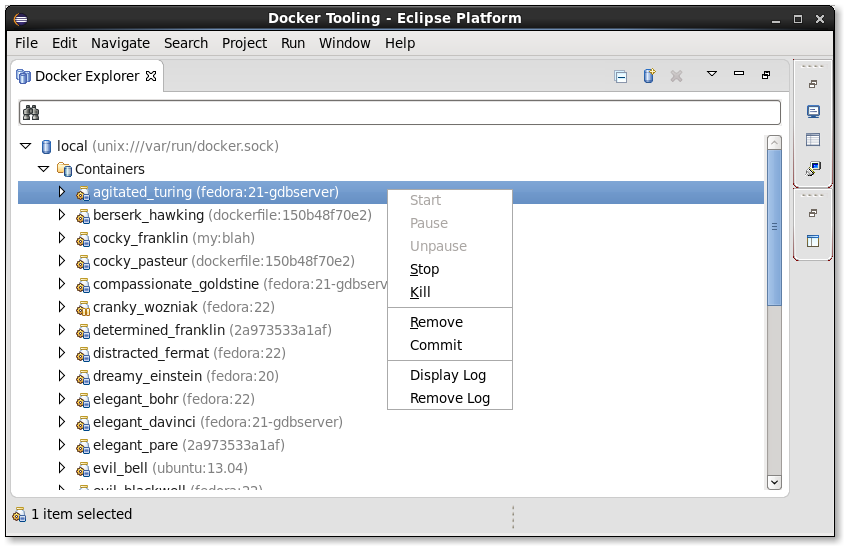
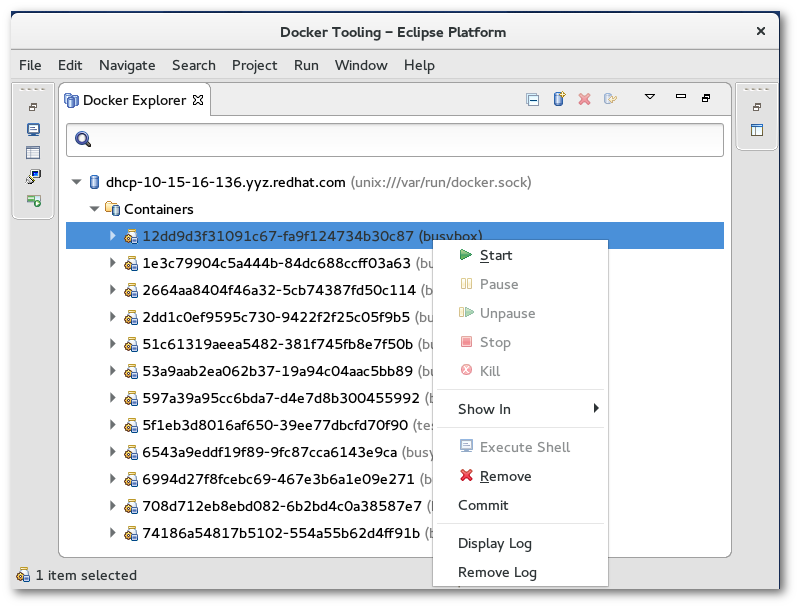
First commited as after_74815_rev1

diff --git a/containers/org.eclipse.linuxtools.docker.docs/Linux_Tools_Project/Docker_Tooling/User_Guide/Docker-Tooling-Perspective.html b/containers/org.eclipse.linuxtools.docker.docs/Linux_Tools_Project/Docker_Tooling/User_Guide/Docker-Tooling-Perspective.html
@@ -28,7 +28,7 @@
 				<td style="width: 60%" align="center"></td>
 				<td style="width: 20%" align="right" valign="top">Updating This Document</td>
 			</tr>
-		</table><hr/>
+		</table><hr class="navigation-separator"/>
 		<h1 id="Docker_Tooling_Perspective">Docker Tooling Perspective</h1>
 		<p>A new perspective known as the Docker Tooling Perspective is added.</p>
 		<p>
@@ -37,13 +37,13 @@
 		<p>This perspective brings up three new views added:</p>
 		<ul>
 			<li>
-				<a href="Docker-Tooling-Perspective.html#Docker_Explorer_View">Docker Explorer View</a> - view for creating/managing connections to Docker daemons
+				<a href="#Docker_Explorer_View">Docker Explorer View</a> - view for creating/managing connections to Docker daemons
 			</li>
 			<li>
-				<a href="Docker-Tooling-Perspective.html#Docker_Images_View">Docker Images View</a> - view for managing Docker Images
+				<a href="#Docker_Images_View">Docker Images View</a> - view for managing Docker Images
 			</li>
 			<li>
-				<a href="Docker-Tooling-Perspective.html#Docker_Containers_View">Docker Containers View</a> - view for managing Docker Containers
+				<a href="#Docker_Containers_View">Docker Containers View</a> - view for managing Docker Containers
 			</li>
 		</ul>
 		<p>In addition, the Docker Tooling Perspective adds the Console View and the Properties View.</p>
@@ -65,6 +65,7 @@
 			<img border="0" src="images/LinuxToolsDockerExplorerViewInit.png"/>
 		</p>
 		<p>Clicking on the message will bring up the New Connection Wizard.</p>
+		<h3 id="New_Connection_Wizard">New Connection Wizard</h3>
 		<p>
 			<img border="0" src="images/LinuxToolsNewConnectionWizard.png"/>
 		</p>
@@ -85,7 +86,20 @@
 			has performed management outside of Eclipse using the docker command.
 		</p>
 		<p>The Explorer View shows a tree view with the main nodes being the connections.  Each connection opens up to reveal Images and
-			Containers nodes which have children nodes for Images and Containers that the connection knows about.  Filtering is provided.
+			Containers nodes which have children nodes for Images and Containers that the connection knows about.  If a connection gets dropped
+			(e.g. the daemon is stopped), it will be marked in view using a gray disabled icon.  To enable the connection,
+			use the 
+			<img border="0" src="images/LinuxToolsDockerToolingEnableConnection.png"/> icon on the toolbar to re-enable the connection.  If the connection
+			can be enabled, it will change color to denote this. 
+		</p>
+		<h3 id="Edit_Connection_Wizard">Edit Connection Wizard</h3>
+		<p>A connection can also be edited after it is created.  Simply select the connection in the Docker Explorer View and right-click for
+			the context menu to select "Edit Connection...".  This will bring up the Edit Connection Wizard:</p>
+		<p>
+			<img border="0" src="images/LinuxToolsEditConnection.png"/>
+		</p>
+		<h3 id="Filtering">Filtering</h3>
+		<p>Filtering is provided for the Docker Explorer View.
 			Simply click on the generic Menu options (down arrow) and click on "Customize View...".  This will bring up the following dialog:</p>
 		<p>
 			<img border="0" src="images/LinuxToolsExplorerFilter.png"/>
@@ -110,12 +124,14 @@
 			<li>Unpause - continue a paused Container</li>
 			<li>Stop - stop running Containers</li>
 			<li>Kill - kill running Containers</li>
+			<li>Show in - show in Properties View</li>
+			<li>Execute Shell - run a shell in the Terminal View (running Container only)</li>
 			<li>Remove - delete stopped Containers</li>
 			<li>
-				<a href="Docker-Tooling-Perspective.html#Commit_Container">Commit</a> - commit the Container to an Image
+				<a href="#Commit_Container">Commit</a> - commit the Container to an Image
 			</li>
 			<li>
-				<a href="Docker-Tooling-Perspective.html#Display_Log">Display Log</a> - display the log for the Container
+				<a href="#Display_Log">Display Log</a> - display the log for the Container
 			</li>
 			<li>Remove Log - removes the log for the Container from Eclipse Console View</li>
 		</ul>
@@ -125,17 +141,18 @@
 		<p>For Images, one can:</p>
 		<ul>
 			<li>
-				<a href="Docker-Tooling-Perspective.html#Run_Image">Run</a> - build a Container and run it
+				<a href="#Run_Image">Run</a> - build a Container and run it
 			</li>
+			<li>Show in Properties View</li>
 			<li>Remove - delete selected Images</li>
 			<li>
-				<a href="Docker-Tooling-Perspective.html#Push_Image">Push</a> - push an Image to a registry
+				<a href="#Push_Image">Push</a> - push an Image to a registry
 			</li>
 			<li>
-				<a href="Docker-Tooling-Perspective.html#Add_Tag">Add Tag</a> - add a tag to an Image
+				<a href="#Add_Tag">Add Tag</a> - add a tag to an Image
 			</li>
 			<li>
-				<a href="Docker-Tooling-Perspective.html#Remove_Tag">Remove Tag</a> - remove a tag from an Image with multiple tags
+				<a href="#Remove_Tag">Remove Tag</a> - remove a tag from an Image with multiple tags
 			</li>
 		</ul>
 		<h2 id="Docker_Images_View">Docker Images View</h2>
@@ -152,23 +169,23 @@
 		<ul>
 			<li>
 				<img border="0" src="images/LinuxToolsDockerImageViewPull.png"/> - 
-				<a href="Docker-Tooling-Perspective.html#Pull_Image">pull an Image from the Repository</a>
+				<a href="#Pull_Image">pull an Image from the Repository</a>
 			</li>
 			<li>
 				<img border="0" src="images/LinuxToolsDockerImageViewPush.png"/> - 
-				<a href="Docker-Tooling-Perspective.html#Push_Image">push an Image to the Repository</a>
+				<a href="#Push_Image">push an Image to the Repository</a>
 			</li>
 			<li>
 				<img border="0" src="images/LinuxToolsDockerContainerCreate.png"/> - 
-				<a href="Docker-Tooling-Perspective.html#Run_Image">create a Container from an Image</a>
+				<a href="#Run_Image">create a Container from an Image</a>
 			</li>
 			<li>
 				<img border="0" src="images/LinuxToolsDockerImageBuild.png"/> - 
-				<a href="Docker-Tooling-Perspective.html#Build_Image">build an Image from a Dockerfile</a>
+				<a href="#Build_Image">build an Image from a Dockerfile</a>
 			</li>
 			<li>
 				<img border="0" src="images/LinuxToolsDockerTagImage.png"/> - 
-				<a href="Docker-Tooling-Perspective.html#Add_Tag">tag an Image</a>
+				<a href="#Add_Tag">tag an Image</a>
 			</li>
 			<li>
 				<img border="0" src="images/LinuxToolsDockerDeleteImage.png"/> - delete one or more Images (requires confirmation)
@@ -180,22 +197,29 @@
 		<p>There are also context menu actions supported:</p>
 		<ul>
 			<li>
-				<a href="Docker-Tooling-Perspective.html#Add_Tag">Add Tag</a> - same as the toolbar tag image action
+				<img border="0" src="images/LinuxToolsDockerContainerCreate.png"/> - 
+				<a href="#Run_Image">Run an Image and create a Container</a>
 			</li>
 			<li>
-				<a href="Docker-Tooling-Perspective.html#Remove_Tag">Remove Tag</a> - remove a tag from an Image with multiple repo tags
+				<a href="#Add_Tag">Add Tag</a> - same as the toolbar tag image action
+			</li>
+			<li>
+				<a href="#Remove_Tag">Remove Tag</a> - remove a tag from an Image with multiple repo tags
 			</li>
 		</ul>
 		<p>The text entry below the Connection name is used to search/filter the contents of the list.
 			Anything typed in the filter text widget is used to match items in the list (any column) and
 			any row without a match is excluded.</p>
 		<h3 id="Pull_Image">Pull Image</h3>
-		<p>Pulling a Docker Image consists of requesting a repo tag or repository specification.
-			Specifying a repository but no tag will pull all Images from that repo (for example: fedora).</p>
-		<p>The pull Wizard is used to specify the repository or repo:tag specification.</p>
+		<p>Pulling a Docker Image consists of requesting a repo tag or repository specification from
+			a registry.  Specifying a repository with no tag will pull all Images from that repo (for example: fedora).</p>
+		<p>The pull Wizard is used to specify the repository or repo:tag specification and the registry to use.</p>
 		<p>
 			<img border="0" src="images/LinuxToolsDockerPullWizard.png"/>
 		</p>
+		<p>By default, the Docker Hub registry will be used, however, a user may
+			specify an additional private registry if desired.  Additional registries are added using
+			Windows -&gt; Preferences -&gt; Docker -&gt; Registry Accounts.</p>
 		<p>The user can either fill in the complete name of the image to download or a search can be performed
 			using the Search button.  This brings up the Search Image Wizard.</p>
 		<p>
@@ -221,7 +245,10 @@
 			repo:tag, it will be pushed to the specified registry.  To specify an external or local registry,
 			use the Tag Image function to add a new tag to an existing Image which has the registry specifier and
 			then push that tag.</p>
-		<p>The push Wizard is used to specify the tag to push.</p>
+		<p>The latest version of the Push Image Wizard allows one to specify a registry/account that has been added
+			via Window -&gt; Preferences -&gt; Docker -&gt; Registry Accounts.  This is needed when authorization is required
+			by the registry for the specified repo.  Using the aforementioned tag method assumes no authorization
+			required.</p>
 		<p>
 			<img border="0" src="images/LinuxToolsDockerPushWizard.png"/>
 		</p>
@@ -256,6 +283,7 @@
 			<li>Keep Stdin Open - used to allow input from the Console</li>
 			<li>Allocate pseudo-tty - used to allocate a TTY for the Container (needed if running a shell)</li>
 			<li>Automatically remove the Container on exit - this is used to remove the Container when finished</li>
+			<li>Give extended privileges to this container - this is used to give the container additional privileges</li>
 		</ul>
 		<p>The second page of the Wizard also has a number of needed settings:</p>
 		<p>
@@ -305,7 +333,7 @@
 		<p>The directory can be specified using the "Browse" button.  Once a valid existing directory
 			is specified, the "Edit" button will be enabled, allowing creation and modification of the
 			Dockerfile using a 
-			<a href="Docker-Tooling-Perspective.html#Dockerfile_Editor">basic editor dialog</a>.
+			<a href="#Dockerfile_Editor">basic editor dialog</a>.
 		</p>
 		<p>When the Dockerfile is considered complete, hitting the "Finish" button will start the
 			Image build action.  When the build is complete, the Docker Images View will be refreshed
@@ -314,8 +342,13 @@
 		<p>
 			<img border="0" src="images/LinuxToolsDockerfileEditor.png"/>
 		</p>
-		<p>The Dockerfile editor is a rudimentary text editor with clipboard support (copy, cut, and paste).
-			The Dockerfile is used to specify how to build the new Docker Image.  The file contains
+		<p>The Dockerfile editor is a specialized text editor for Dockerfiles that was added to the
+			Neon release.  The editor supports
+			completion and offers help on the basic Dockerfile constructs.  Completion occurs using the
+			CTRL + space sequence as in any other text editor.  Reverting fixes and saving are also supported plus
+			full colorization.  The editor can be brought up from the Build Image Wizard or by double-clicking on
+			a Dockerfile file in an Eclipse View such as the Project Explorer.</p>
+		<p>A Dockerfile is used to specify how to build the new Docker Image.  The file contains
 			a set of commands used to build the Image:</p>
 		<ul>
 			<li>FROM xxxxxx - this must be the first line and specifies the Image xxxxxx to base off of (e.g. FROM fedora:20)
@@ -390,6 +423,23 @@
 		<p>For more details, see 
 			<a href="http://docs.docker.com/reference/builder">the official Dockerfile reference</a>
 		</p>
+		<h4 id="Build_Image_Run_Configuration">Build Image Run Configuration</h4>
+		<p>A Dockerfile can also be run by right-clicking on it in an Eclipse project and choosing
+			Run as -&gt; Docker Image Build.  For the first time the file is built, you will get the following
+			dialog:</p>
+		<p>
+			<img border="0" src="images/LinuxToolsDockerBuildImageFirstDialog.png"/>
+		</p>
+		<p>Here, the connection and the repository name for the new image can be supplied.  An image created
+			without a name will default to be: dockerfile:xxxxxxxxxxxx where xxxxxxxxxxx is a unique hex value.  </p>
+		<p>After building, a Run configuration will be created that can be inspected, modified, or run using
+			the Run-&gt;Run Configurations... menu option.</p>
+		<p>
+			<img border="0" src="images/LinuxToolsDockerBuildImageConfiguration2.png"/>
+		</p>
+		<p>Note there are additional options in the configuration that can be specified for the image build that
+			are not available by right-clicking on the Dockerfile.  A new Run configuration can be created from the
+			Run Configurations dialog by double-clicking on the Build Docker Image category.</p>
 		<h3 id="Add_Tag">Add Tag</h3>
 		<p>The Tag Image dialog can be brought up directly from the Docker Images View toolbar or using the
 			context menu by right-clicking on an Image.</p>
@@ -460,10 +510,10 @@
 		<p>The following context menu actions are supported:</p>
 		<ul>
 			<li>Commit Container - 
-				<a href="Docker-Tooling-Perspective.html#Commit_Container">commit all changes of a selected Container into a new Image</a>
+				<a href="#Commit_Container">commit all changes of a selected Container into a new Image</a>
 			</li>
 			<li>Display Log - 
-				<a href="Docker-Tooling-Perspective.html#Display_Log">display the stdout/stderr logs of a selected Container in the Console View</a>
+				<a href="#Display_Log">display the stdout/stderr logs of a selected Container in the Console View</a>
 			</li>
 			<li>Remove Log - remove the stdout/stderr logs of a selected Container from the Console View</li>
 		</ul>
@@ -511,9 +561,9 @@
 		</ul>
 		<h2 id="Properties_View">Properties View</h2>
 		<p>The Properties View will respond to selections in the three Docker Tooling Views: 
-			<a href="Docker-Tooling-Perspective.html#Docker_Explorer_View">Docker Explorer View</a>, 
-			<a href="Docker-Tooling-Perspective.html#Docker_Images_View">Docker Images View</a>, and the 
-			<a href="Docker-Tooling-Perspective.html#Docker_Containers_View">Docker Containers View</a>.  The data shown will depend on what is being selected:
+			<a href="#Docker_Explorer_View">Docker Explorer View</a>, 
+			<a href="#Docker_Images_View">Docker Images View</a>, and the 
+			<a href="#Docker_Containers_View">Docker Containers View</a>.  The data shown will depend on what is being selected:
 		</p>
 		<ul>
 			<li>Docker Connection</li>
@@ -530,7 +580,7 @@
 		</ul>
 		<p>
 			<img border="0" src="images/LinuxToolsDockerPropertiesView.png"/>
-		</p><hr/>
+		</p><hr class="navigation-separator"/>
 		<table class="navigation" style="width: 100%;" border="0" summary="navigation">
 			<tr>
 				<td style="width: 20%" align="left">

diff --git a/containers/org.eclipse.linuxtools.docker.docs/Linux_Tools_Project/Docker_Tooling/User_Guide/Updating-This-Document.html b/containers/org.eclipse.linuxtools.docker.docs/Linux_Tools_Project/Docker_Tooling/User_Guide/Updating-This-Document.html
@@ -24,11 +24,11 @@
 				<td style="width: 60%" align="center"></td>
 				<td style="width: 20%" align="right" valign="top"></td>
 			</tr>
-		</table><hr/>
+		</table><hr class="navigation-separator"/>
 		<h1 id="Updating_This_Document">Updating This Document</h1>
 		<pre>   This document is maintained in a collaborative wiki.  If you wish to update or modify this document please visit
-   http://wiki.eclipse.org/Linux_Tools_Project/Docker_Tooling/User_Guide .
-</pre><hr/>
+   <a href="http://wiki.eclipse.org/Linux_Tools_Project/Docker_Tooling/User_Guide">http://wiki.eclipse.org/Linux_Tools_Project/Docker_Tooling/User_Guide</a> .
+</pre><hr class="navigation-separator"/>
 		<table class="navigation" style="width: 100%;" border="0" summary="navigation">
 			<tr>
 				<td style="width: 20%" align="left">

diff --git a/containers/org.eclipse.linuxtools.docker.docs/Linux_Tools_Project/Docker_Tooling/User_Guide/User-Guide.html b/containers/org.eclipse.linuxtools.docker.docs/Linux_Tools_Project/Docker_Tooling/User_Guide/User-Guide.html
@@ -24,13 +24,13 @@
 				<td style="width: 60%" align="center"></td>
 				<td style="width: 20%" align="right" valign="top">Docker Tooling Perspective</td>
 			</tr>
-		</table><hr/>
+		</table><hr class="navigation-separator"/>
 		<h1 id="Introduction">Introduction</h1>
 		<p>The Linux Tools Docker Tooling plug-ins allow a user to manage Docker Images and Containers with similar functionality found in
 			the command-line docker command.</p>
 		<p>For details on Docker and the docker command, see the Docker web-site at 
 			<a href="http://www.docker.com">http://www.docker.com</a>
-		</p><hr/>
+		</p><hr class="navigation-separator"/>
 		<table class="navigation" style="width: 100%;" border="0" summary="navigation">
 			<tr>
 				<td style="width: 20%" align="left"></td>
